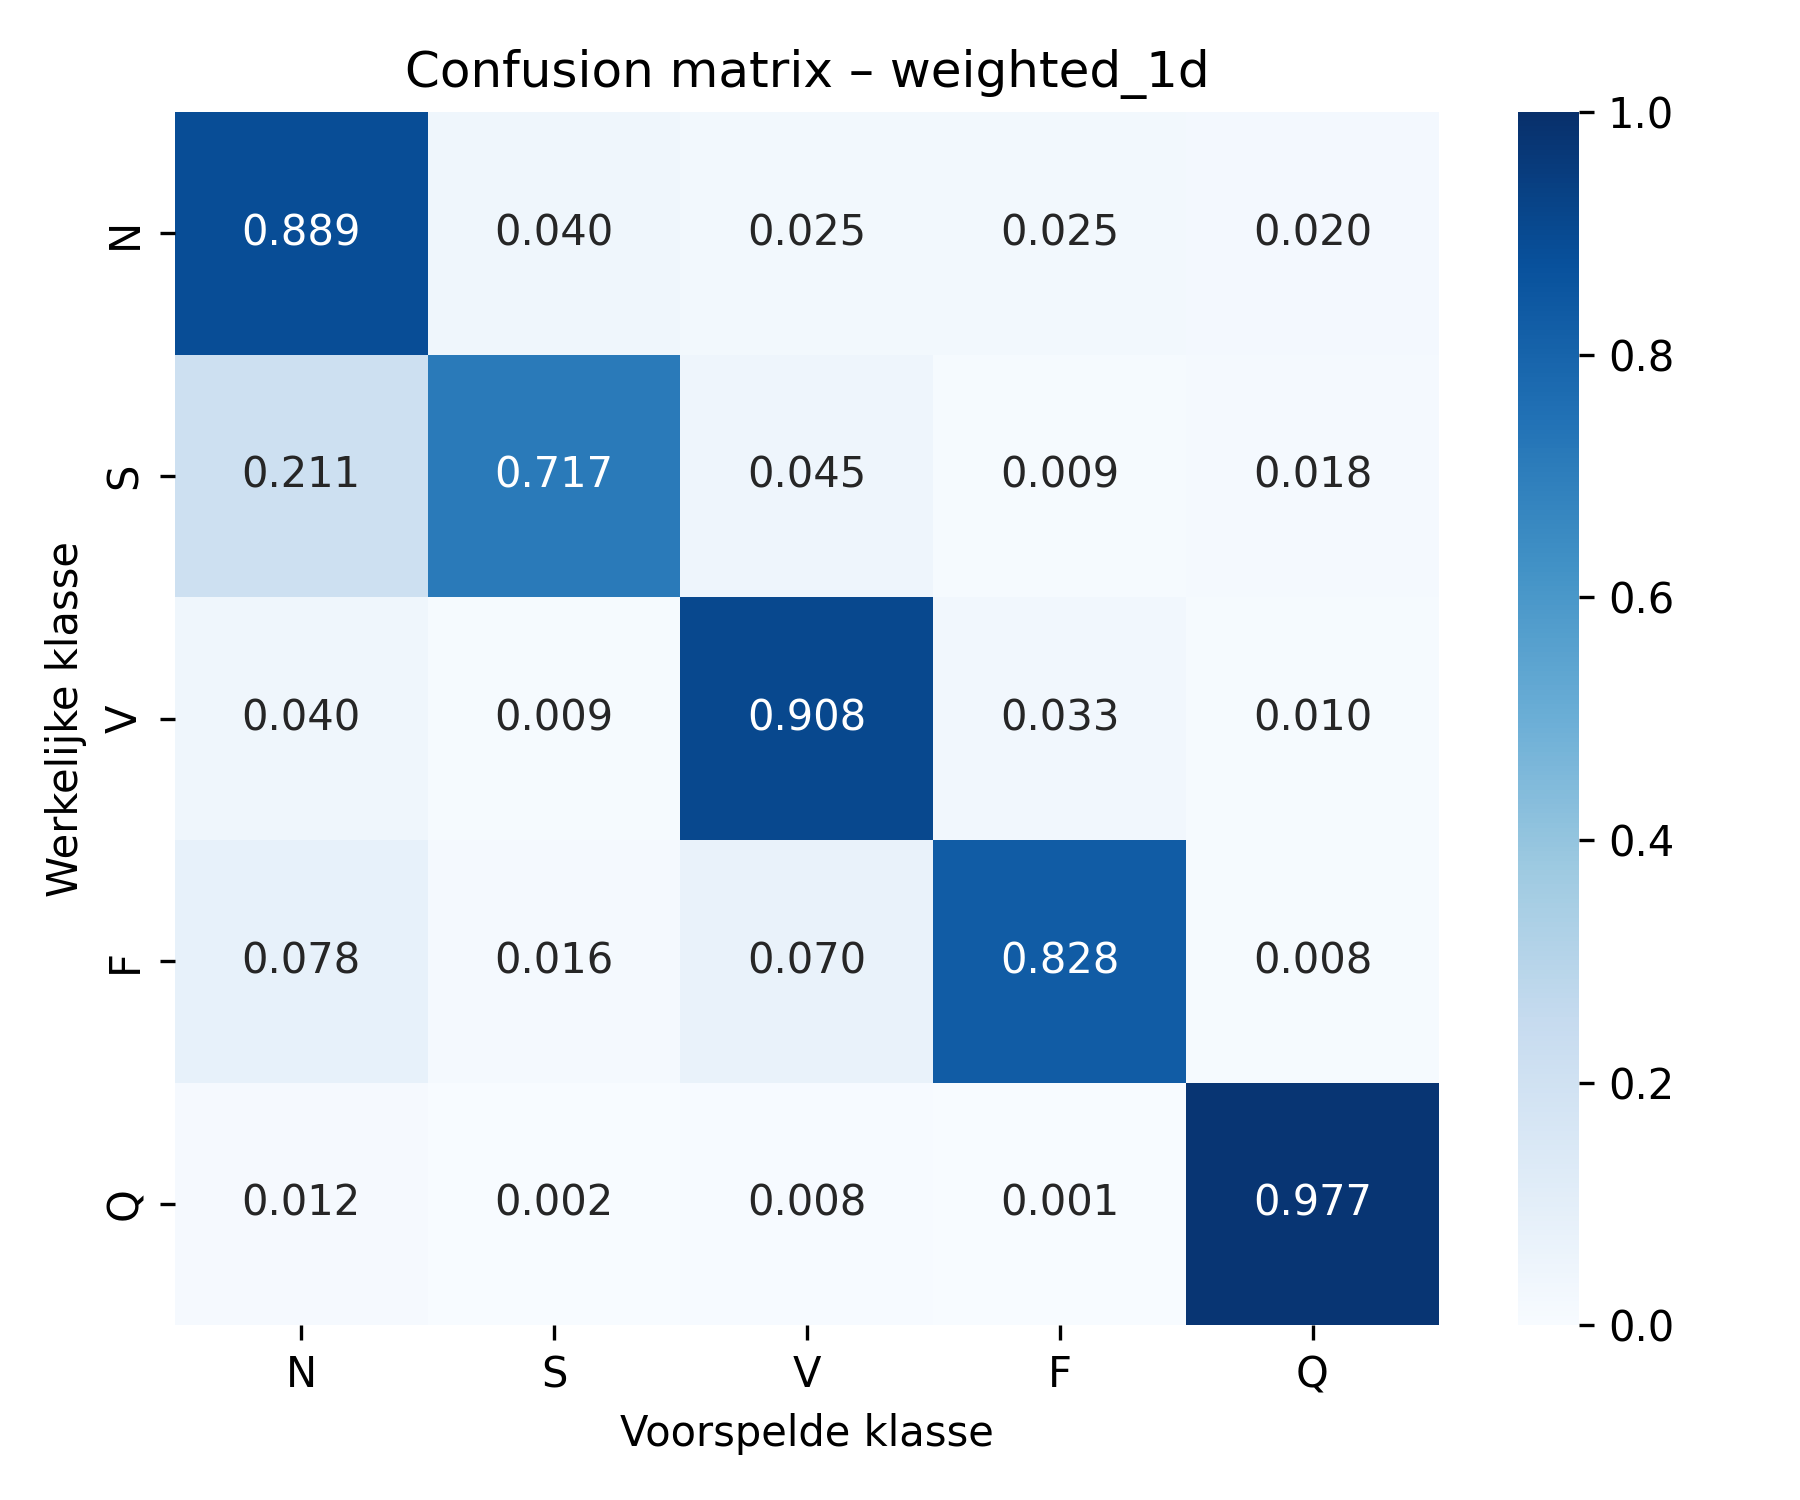
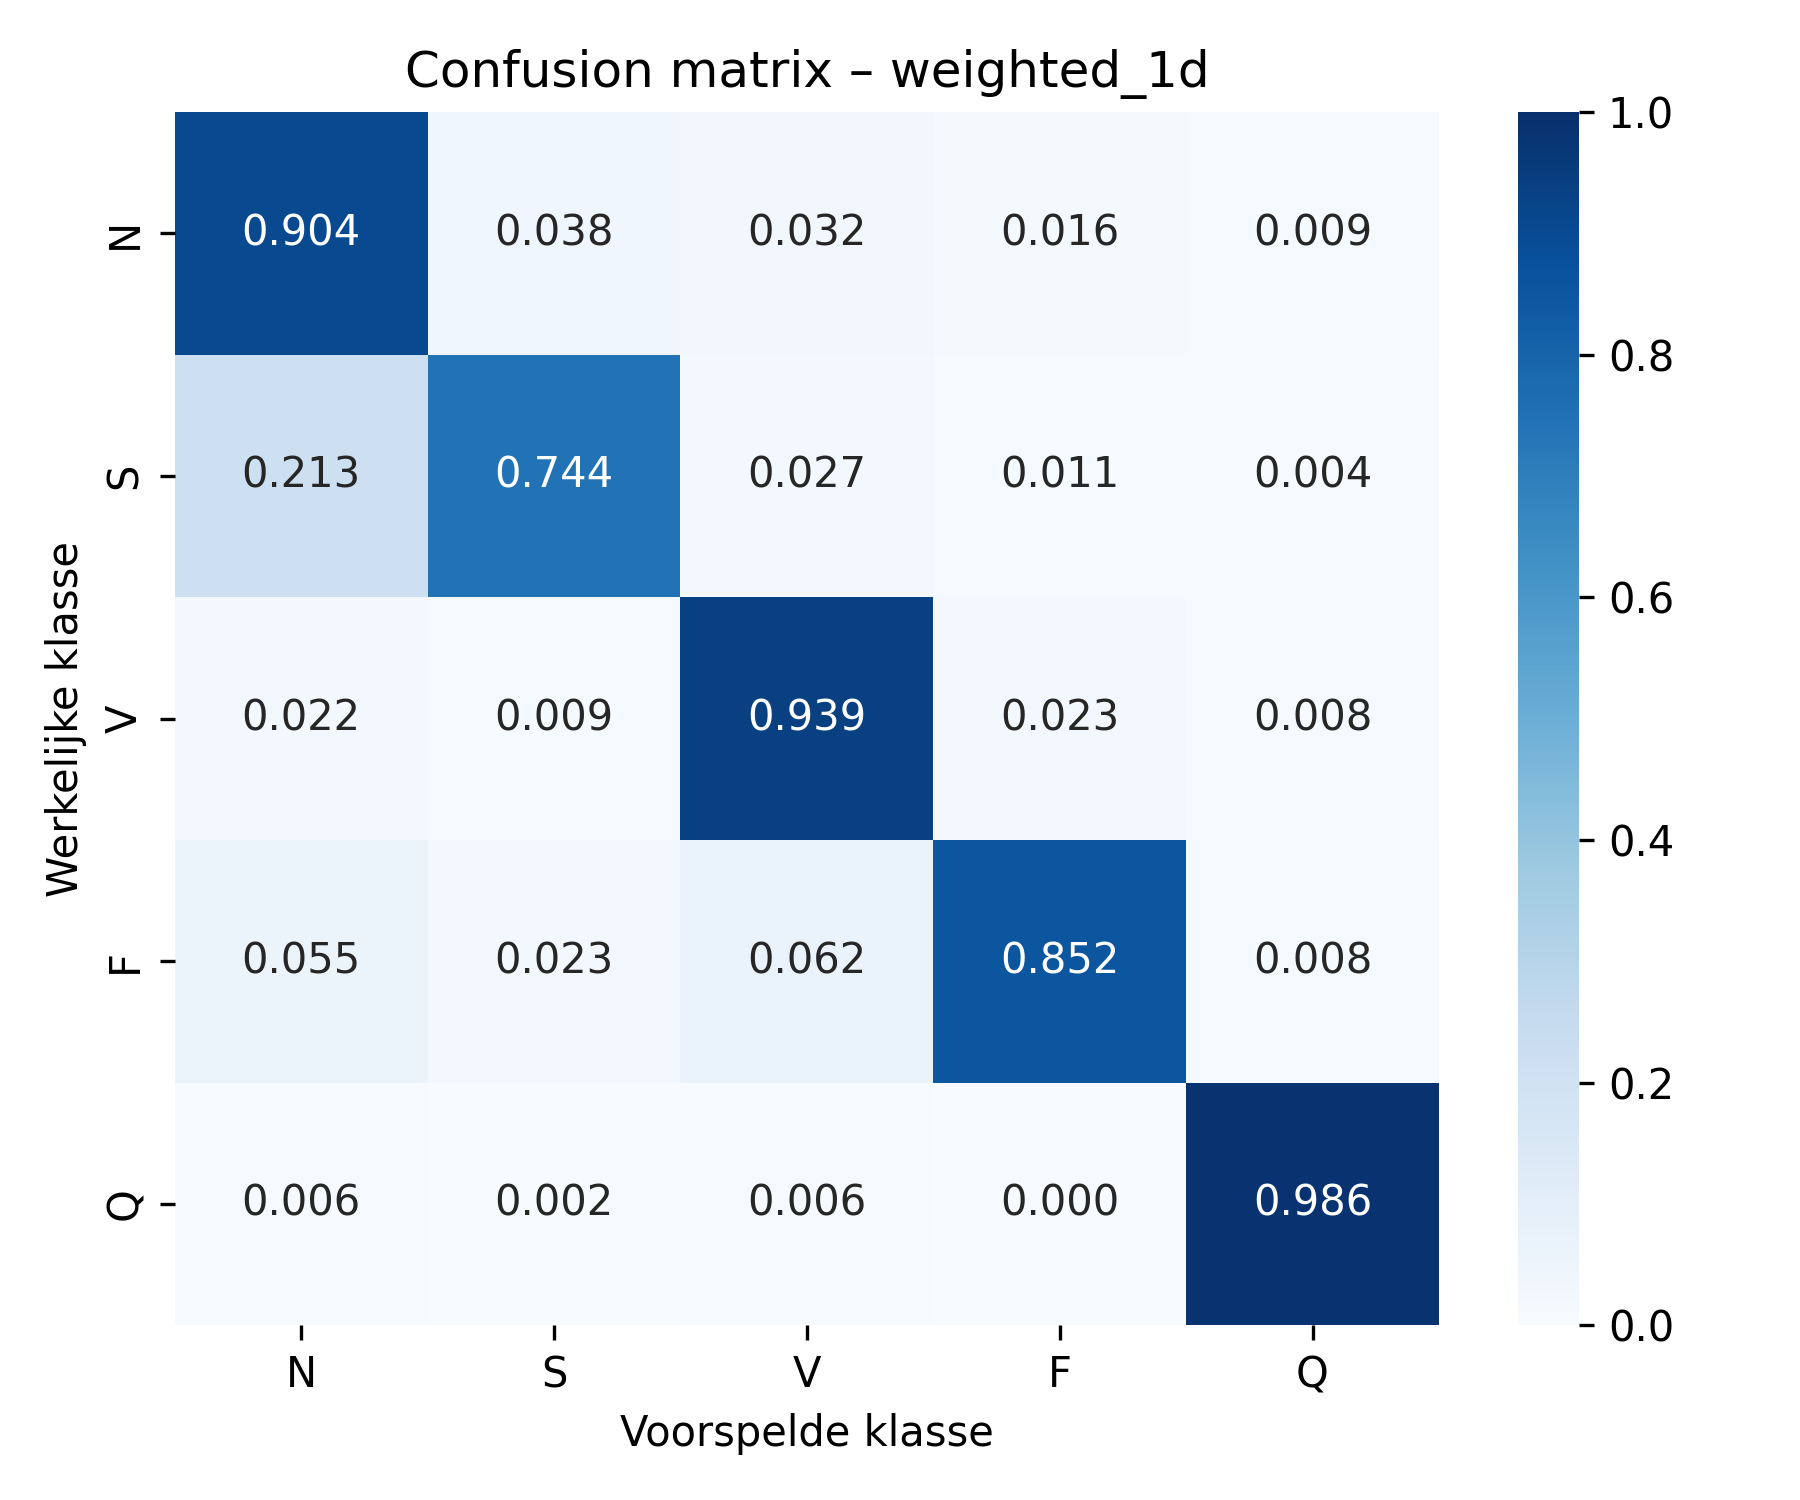
add batchnorm and even kernel sizes, run new experiments

diff --git a/src/networks.py b/src/networks.py
@@ -1,7 +1,13 @@
 import torch
 from torch import nn
 
-from src.config import ECG_FEATURES, MATRIX_SHAPE, NUM_CLASSES
+from src.config import (
+    ECG_FEATURES,
+    KERNEL_SIZE,
+    LARGE_KERNEL_SIZE,
+    MATRIX_SHAPE,
+    NUM_CLASSES,
+)
 
 
 class CNN1D(nn.Module):
@@ -11,7 +17,7 @@ class CNN1D(nn.Module):
         self,
         features: int = 1,
         num_classes: int = NUM_CLASSES,
-        kernel_size: int = 5,
+        kernel_size: int = KERNEL_SIZE,
         filters: int = 16,
         input_size: int = ECG_FEATURES,
     ) -> None:
@@ -24,6 +30,7 @@ class CNN1D(nn.Module):
                 kernel_size=kernel_size,
                 padding=kernel_size // 2,
             ),
+            nn.BatchNorm1d(filters),
             nn.ReLU(),
             nn.MaxPool1d(2),
         )
@@ -49,7 +56,7 @@ class CNN2D(nn.Module):
         self,
         features: int = 1,
         num_classes: int = NUM_CLASSES,
-        kernel_size: int = 3,
+        kernel_size: int = KERNEL_SIZE,
         filters: int = 16,
         matrixshape: tuple[int, int] = MATRIX_SHAPE,
     ) -> None:
@@ -63,6 +70,7 @@ class CNN2D(nn.Module):
                 kernel_size=kernel_size,
                 padding=kernel_size // 2,
             ),
+            nn.BatchNorm2d(filters),
             nn.ReLU(),
             nn.MaxPool2d(2),
         )
@@ -85,23 +93,20 @@ class CNN2D(nn.Module):
 
 
 class ParallelCNN2D(nn.Module):
-    """2D CNN met twee parallelle kernelgroottes."""
+    """2D CNN met een kleine en een grote parallelle kernelroute."""
 
     def __init__(
         self,
         num_classes: int = NUM_CLASSES,
         filters: int = 16,
         matrixshape: tuple[int, int] = MATRIX_SHAPE,
-        large_kernel: int = 5,
         dropout: float = 0.0,
+        large_kernel_size: int = LARGE_KERNEL_SIZE,
     ) -> None:
         super().__init__()
 
-        # Kleine kernel zoekt lokale patronen.
-        self.small_route = self._conv_block(filters, 3)
-
-        # Grote kernel kijkt naar een groter deel van het ECG.
-        self.large_route = self._conv_block(filters, large_kernel)
+        self.first_route = self._conv_block(filters, KERNEL_SIZE)
+        self.second_route = self._conv_block(filters, large_kernel_size)
 
         # Beide routes worden samengevoegd, dus 2 keer zoveel features.
         flatten_size = (
@@ -133,10 +138,10 @@ class ParallelCNN2D(nn.Module):
 
     def forward(self, x: torch.Tensor) -> torch.Tensor:
         # Beide routes verwerken dezelfde invoer.
-        small = self.small_route(x)
-        large = self.large_route(x)
+        first = self.first_route(x)
+        second = self.second_route(x)
 
         # Uitkomsten samenvoegen over de filters.
-        x = torch.cat([small, large], dim=1)
+        x = torch.cat([first, second], dim=1)
 
         return self.classifier(x)

diff --git a/main.py b/main.py
@@ -11,6 +11,7 @@ from torch.utils.data import Dataset, Subset
 from src.config import (
     DEFAULT_SEED,
     ECG_FEATURES,
+    LARGE_KERNEL_SIZE,
     MATRIX_SHAPE,
     NUM_CLASSES,
     RESULTS_FILE,
@@ -120,8 +121,8 @@ def run_standard_experiment(args: Namespace) -> None:
             num_classes=NUM_CLASSES,
             filters=args.filters,
             matrixshape=MATRIX_SHAPE,
-            large_kernel=args.large_kernel,
             dropout=args.dropout,
+            large_kernel_size=args.large_kernel,
         )
 
     else:
@@ -220,8 +221,8 @@ def run_final(args: Namespace) -> None:
             num_classes=NUM_CLASSES,
             filters=int(best["config/filters"]),
             matrixshape=MATRIX_SHAPE,
-            large_kernel=int(best["config/large_kernel"]),
             dropout=float(best["config/dropout"]),
+            large_kernel_size=int(best["config/large_kernel"]),
         ),
         experiment_name="parallel_hypertuned_final",
         trainstreamer=build_streamer(train, batch_size),
@@ -266,13 +267,12 @@ def parse_args() -> Namespace:
     parser.add_argument("--learning-rate", type=float, default=0.001)
     parser.add_argument("--weight-decay", type=float, default=0.0)
     parser.add_argument("--filters", type=int, default=16)
+    parser.add_argument("--dropout", type=float, default=0.0)
     parser.add_argument(
         "--large-kernel",
         type=int,
-        choices=[5, 7],
-        default=5,
+        default=LARGE_KERNEL_SIZE,
     )
-    parser.add_argument("--dropout", type=float, default=0.0)
     parser.add_argument("--seed", type=int, default=DEFAULT_SEED)
     parser.add_argument("--num-samples", type=int, default=20)
     parser.add_argument(

diff --git a/src/tuning.py b/src/tuning.py
@@ -44,8 +44,8 @@ def run_ray_tuning(
             num_classes=NUM_CLASSES,
             filters=config["filters"],
             matrixshape=MATRIX_SHAPE,
-            large_kernel=config["large_kernel"],
             dropout=config["dropout"],
+            large_kernel_size=config["large_kernel"],
         )
 
         # Gebruik class weights zodat zeldzame klassen zwaarder meetellen in de loss.
@@ -119,10 +119,7 @@ def run_ray_tuning(
         "batch_size": tune.choice([16, 32, 64]),
         "weight_decay": tune.loguniform(1e-6, 1e-3),
         "dropout": tune.uniform(0.0, 0.4),
-
-        # De eerste parallelle route gebruikt vast een 3x3-kernel.
-        # Alleen de kernelgrootte van de tweede route wordt geoptimaliseerd.
-        "large_kernel": tune.choice([5, 7]),
+        "large_kernel": tune.choice([7, 9, 11]),
     }
 
     # ASHA stopt zwakke configuraties vroegtijdig,

diff --git a/src/config.py b/src/config.py
@@ -9,6 +9,8 @@ NUM_CLASSES = 5
 CLASS_LABELS = ("N", "S", "V", "F", "Q")
 ECG_FEATURES = 187
 MATRIX_SHAPE = (16, 12)
+KERNEL_SIZE = 5
+LARGE_KERNEL_SIZE = 7
 VALIDATION_FRACTION = 0.2
 DEFAULT_SEED = 42
 

diff --git a/README.md b/README.md
@@ -10,7 +10,7 @@ Dit project onderzoekt hoe verschillende CNN-keuzes de classificatie van ECG-har
 
 1. **1D-CNN versus 2D-CNN** – vergelijking van de oorspronkelijke tijdreeksrepresentatie met een 16×12-representatie.
 2. **Class weights** – inverse-frequency gewichten om zeldzame klassen zwaarder mee te laten tellen in de loss.
-3. **Parallelle 2D-CNN** – twee parallelle routes: een vaste 3×3-kernel en een tweede route met een grotere kernel.
+3. **Parallelle 2D-CNN** – een 5×5-route en een grotere route die standaard 7×7 gebruikt.
 4. **Ray Tune** – hyperparameteroptimalisatie van de parallelle CNN op validation macro-recall.
 
 De modellen staan in `src/networks.py`. Datasetlogica staat in `src/datasets.py`, de train/validation-split en class weights in `src/data_utils.py`, de experimenteerlogica in `src/helpers.py` en de Ray Tune-logica in `src/tuning.py`.
@@ -90,7 +90,7 @@ uv run python main.py --experiment parallel \
   --batch-size 32 \
   --learning-rate 0.001 \
   --filters 16 \
-  --large-kernel 5 \
+  --large-kernel 7 \
   --dropout 0.0 \
   --seed 42
 ```
@@ -106,9 +106,9 @@ De tuning gebruikt:
 | Batch size | `16, 32, 64` |
 | Weight decay | `1e-6` – `1e-3`, loguniform |
 | Dropout | `0.0` – `0.4`, uniform |
-| Tweede kernelroute | `5×5` of `7×7` |
+| Grote parallelle kernel | `7×7`, `9×9`, `11×11` |
 
-De eerste parallelle route blijft vast op **3×3**. Ray Tune selecteert op macro-recall van de validation set. ASHA wordt gebruikt om zwakke configuraties vroegtijdig te stoppen.
+De 1D- en 2D-CNN gebruiken een vaste kernelgrootte van **5**. In de parallelle CNN gebruikt de eerste route een vaste **5×5**-kernel en gebruikt de tweede route standaard een **7×7**-kernel. Ray Tune selecteert voor deze tweede route uit grotere kernels. ASHA wordt gebruikt om zwakke configuraties vroegtijdig te stoppen.
 
 Ray Tune gebruikt ASHA met een grace period van 3 epochs en een reduction factor
 van 2. ASHA kan zwakke trials eerder beëindigen; de overige trials kunnen
